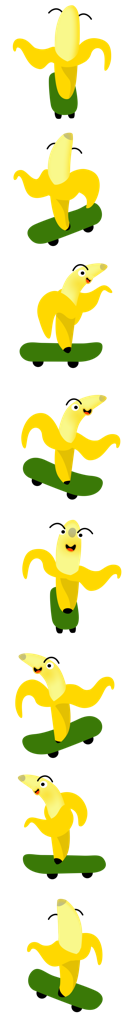
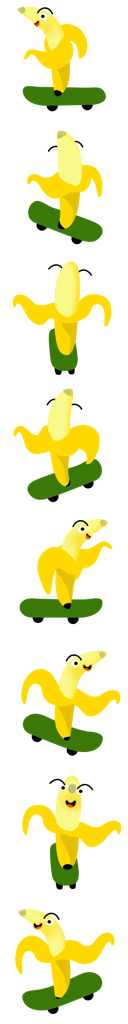
refactor(script.ts): update spritesheet, add directionality, add to degrees/radians to math util

diff --git a/source/script.ts b/source/script.ts
@@ -1,8 +1,12 @@
 import './style.scss';
 
 import Vec2, { add, fromPolar, lerp, limit, normalize, scale, sub } from './lib/geom/vec2';
-import { min, random, π, ππ } from './lib/math';
+import { floor, min, random, round, toDegrees, π, ππ } from './lib/math';
 import Particle from './lib/physics/particle';
+
+import reginaldUrl from './images/reginald-teeth-banana.png';
+const reginald = new Image(128, 1024);
+const rs = 3;
 
 const { cancelAnimationFrame: cAF, requestAnimationFrame: rAF } = window;
 
@@ -41,7 +45,7 @@ canvasContext.imageSmoothingEnabled = bufferContext.imageSmoothingEnabled = fals
 const speed = 3 / stageScale;
 const force = 0.025 / stageScale;
 
-function getSeparate(ps: Particle[], dist: number = 40 / stageScale): (p: Particle) => Vec2 {
+function getSeparate(ps: Particle[], dist: number = 50 / stageScale): (p: Particle) => Vec2 {
   return (p: Particle): Vec2 => {
     let j = 0;
 
@@ -116,7 +120,7 @@ function getCohere(ps: Particle[], dist: number = 100 / stageScale): (p: Particl
   };
 }
 
-const numParticles = 50;
+const numParticles = 20;
 const particles: Particle[] = [];
 
 const separate = getSeparate(particles);
@@ -162,26 +166,26 @@ function update(t: number, dt: number): void {
     const { cpos: { x, y }, cvel } = particle;
     let move = Vec2.zero;
 
-    if (y < 0) {
-      move = new Vec2(0, stageHeight);
+    if (y < 0 - (128 - 96) / rs) {
+      move = new Vec2(0, stageHeight + 128 / rs);
       particle.ppos = add(particle.ppos, move);
       particle.cpos = add(particle.cpos, move);
     }
 
-    if (x < 0) {
-      move = new Vec2(stageWidth, 0);
+    if (x < -64 / rs) {
+      move = new Vec2(stageWidth + 128 / rs, 0);
       particle.ppos = add(particle.ppos, move);
       particle.cpos = add(particle.cpos, move);
     }
 
-    if (x > stageWidth) {
-      move = new Vec2(stageWidth, 0);
+    if (x > stageWidth + 64 / rs) {
+      move = new Vec2(stageWidth + 128 / rs, 0);
       particle.ppos = sub(particle.ppos, move);
       particle.cpos = sub(particle.cpos, move);
     }
 
-    if (y > stageHeight) {
-      move = new Vec2(0, stageHeight);
+    if (y > stageHeight + 96 / rs) {
+      move = new Vec2(0, stageHeight + 128 / rs);
       particle.ppos = sub(particle.ppos, move);
       particle.cpos = sub(particle.cpos, move);
     }
@@ -207,34 +211,42 @@ function update(t: number, dt: number): void {
  * has yet to be simulated this frame as a percentage of the simulation step
  */
 function draw(i: number): void {
-  bufferContext.clearRect(0, 0, stageWidth, stageHeight);
-  canvasContext.clearRect(0, 0, stageWidth, stageHeight);
+  bufferContext.fillStyle = 'gray';
+  bufferContext.fillRect(0, 0, stageWidth, stageHeight);
 
   const start = performance.now();
-  particles.some(particle => {
-    const { cvel: { θ, ρ } } = particle;
-    const { x, y } = particle.ipos(i);
+  particles
+    .sort((a, b) => {
+      return a.ipos(i).y - b.ipos(i).y;
+    })
+    .some(particle => {
+      const { cvel: { θ, ρ } } = particle;
+      const { x, y } = particle.ipos(i);
+      const frame = floor(((round(toDegrees(θ + π)) + 22.5) % 360) / 45);
 
-    bufferContext.save();
+      bufferContext.save();
 
-    bufferContext.beginPath();
-    bufferContext.fillStyle = `hsl(${θ * 180 / π},100%,50%)`;
+      bufferContext.translate(x, y);
+      bufferContext.filter = [
+        `drop-shadow(0px 1px 2px rgba(0,0,0,0.3))`,
+        // `hue-rotate(${toDegrees(θ + π)}deg)`,
+      ].join(' ');
+      bufferContext.drawImage(
+        reginald,
+        0,
+        128 * frame,
+        128,
+        128,
+        -64 / rs,
+        -96 / rs,
+        128 / rs,
+        128 / rs,
+      );
 
-    bufferContext.translate(x, y);
-    bufferContext.rotate(θ);
+      bufferContext.restore();
 
-    const s = 20 / stageScale;
-    const l = ρ * s * 2;
-    const hl = l / 2;
-    const w = s / 2;
-    const hw = w / 2;
-    bufferContext.rect(-hl, -hw, l, w);
-    bufferContext.fill();
-
-    bufferContext.restore();
-
-    return performance.now() - start > step / 2;
-  });
+      return performance.now() - start > step / 2;
+    });
 
   canvasContext.drawImage(buffer, 0, 0);
 }
@@ -311,4 +323,10 @@ function toggle(): void {
 
 // playStopButton.addEventListener('click', toggle);
 // goto(3);
-play();
+// play();
+
+reginald.addEventListener('load', event => {
+  play();
+});
+
+reginald.src = reginaldUrl;

diff --git a/source/lib/math.ts b/source/lib/math.ts
@@ -1,5 +1,27 @@
 import seedRandom from 'seedrandom';
 
 export const random = seedRandom('fart.ts');
-export const { atan2, cos, hypot, max, min, PI: π, sin, sqrt } = Math;
+export const { atan2, cos, floor, hypot, max, min, PI: π, round, sin, sqrt } = Math;
 export const ππ = π * 2;
+
+/**
+ * ## toDegrees
+ * takes an angle in radians and returns that angle in degrees
+ *
+ * @param {number} radians - an angle, in radians
+ * @return {number} - that same angle, in degrees
+ */
+export function toDegrees(radians: number): number {
+  return radians * 180 / π;
+}
+
+/**
+ * ## toRadians
+ * takes an angle in degrees and returns that angle in radians
+ *
+ * @param {number} degrees - an angle, in degrees
+ * @return {number} - that same angle, in radians
+ */
+export function toRadians(degrees: number): number {
+  return degrees * π / 180;
+}
